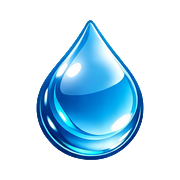
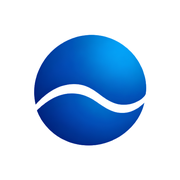
Switch site to the 23 Aug wave bubble identity
Replaces the droplet logo across the site with the 23 Aug kit in
brand/logo-kit-230826. Regenerated, not just copied, so each asset is at
the size the markup actually asks for.

- logo.png / logo-reverse.png: horizontal lockup, 1118x400
- favicon.png, favicon-32.png: from lefties-favicon-512
- apple-touch-icon.png: from lefties-app-icon, 180px
- icon-192.png, icon-512.png: added - site.webmanifest has referenced
  these two since the rebuild but they were never shipped, so the PWA
  icons 404'd

Header and footer markup carried hardcoded width="440" height="193" on
the logo, matching the droplet's 2.28 ratio. The new lockup is 2.79, so a
straight file swap would have squashed it on every page. Updated to
440x157 across 33 occurrences in 17 files.

Uses the horizontal lockup rather than the primary one because the kit
sets a 180px screen minimum for the full lockup and these render at 46px
and 52px. Consequence: the header no longer shows the CARPET CLEANING
descriptor. Noted in brand/README.md along with the mapping from each
site asset back to its kit source.

diff --git a/commercial.html b/commercial.html
@@ -32,7 +32,7 @@
 <a class="skip-link" href="#main">Skip to content</a>
 <header class="site-header">
 <div class="wrap">
-<a href="index.html" class="logo"><img src="assets/img/logo.png" alt="Lefties Carpet Cleaning" width="440" height="193"/></a>
+<a href="index.html" class="logo"><img src="assets/img/logo.png" alt="Lefties Carpet Cleaning" width="440" height="157"/></a>
 <nav class="nav-links" aria-label="Main">
 <a href="services.html">Services</a>
 <a href="commercial.html" aria-current="page">Commercial</a>
@@ -151,7 +151,7 @@
 <div class="wrap">
 <div class="cols">
 <div>
-<img class="flogo" src="assets/img/logo-reverse.png" alt="Lefties Carpet Cleaning" width="440" height="193" loading="lazy"/>
+<img class="flogo" src="assets/img/logo-reverse.png" alt="Lefties Carpet Cleaning" width="440" height="157" loading="lazy"/>
 <p>Carpet, upholstery and fabric revival across Hervey Bay and the Fraser Coast. Owner-operated, fully insured, and straight with you about what can and can't be fixed.</p>
 <div class="social-row" style="margin-top:18px">
 <a href="https://www.facebook.com/leftiesservices/" target="_blank" rel="noopener" class="social-btn fb" aria-label="Lefties on Facebook"><svg viewBox="0 0 24 24" aria-hidden="true"><path d="M22.675 0h-21.35C.593 0 0 .593 0 1.325v21.351C0 23.407.593 24 1.325 24h11.495v-9.294h-3.128v-3.622h3.128V8.413c0-3.1 1.893-4.788 4.659-4.788 1.325 0 2.463.099 2.795.143v3.24l-1.918.001c-1.504 0-1.795.715-1.795 1.763v2.313h3.587l-.467 3.622h-3.12V24h6.116c.73 0 1.323-.593 1.323-1.325V1.325C24 .593 23.407 0 22.675 0z"/></svg> Facebook</a>

diff --git a/services.html b/services.html
@@ -31,7 +31,7 @@
 <a class="skip-link" href="#main">Skip to content</a>
 <header class="site-header">
 <div class="wrap">
-<a href="index.html" class="logo"><img src="assets/img/logo.png" alt="Lefties Carpet Cleaning" width="440" height="193"/></a>
+<a href="index.html" class="logo"><img src="assets/img/logo.png" alt="Lefties Carpet Cleaning" width="440" height="157"/></a>
 <nav class="nav-links" aria-label="Main">
 <a href="services.html" aria-current="page">Services</a>
 <a href="commercial.html">Commercial</a>
@@ -150,7 +150,7 @@
 <div class="wrap">
 <div class="cols">
 <div>
-<img class="flogo" src="assets/img/logo-reverse.png" alt="Lefties Carpet Cleaning" width="440" height="193" loading="lazy"/>
+<img class="flogo" src="assets/img/logo-reverse.png" alt="Lefties Carpet Cleaning" width="440" height="157" loading="lazy"/>
 <p>Carpet, upholstery and fabric revival across Hervey Bay and the Fraser Coast. Owner-operated, fully insured, and straight with you about what can and can't be fixed.</p>
 <div class="social-row" style="margin-top:18px">
 <a href="https://www.facebook.com/leftiesservices/" target="_blank" rel="noopener" class="social-btn fb" aria-label="Lefties on Facebook"><svg viewBox="0 0 24 24" aria-hidden="true"><path d="M22.675 0h-21.35C.593 0 0 .593 0 1.325v21.351C0 23.407.593 24 1.325 24h11.495v-9.294h-3.128v-3.622h3.128V8.413c0-3.1 1.893-4.788 4.659-4.788 1.325 0 2.463.099 2.795.143v3.24l-1.918.001c-1.504 0-1.795.715-1.795 1.763v2.313h3.587l-.467 3.622h-3.12V24h6.116c.73 0 1.323-.593 1.323-1.325V1.325C24 .593 23.407 0 22.675 0z"/></svg> Facebook</a>

diff --git a/about-us.html b/about-us.html
@@ -31,7 +31,7 @@
 <a class="skip-link" href="#main">Skip to content</a>
 <header class="site-header">
 <div class="wrap">
-<a href="index.html" class="logo"><img src="assets/img/logo.png" alt="Lefties Carpet Cleaning" width="440" height="193"/></a>
+<a href="index.html" class="logo"><img src="assets/img/logo.png" alt="Lefties Carpet Cleaning" width="440" height="157"/></a>
 <nav class="nav-links" aria-label="Main">
 <a href="services.html">Services</a>
 <a href="commercial.html">Commercial</a>
@@ -138,7 +138,7 @@
 <div class="wrap">
 <div class="cols">
 <div>
-<img class="flogo" src="assets/img/logo-reverse.png" alt="Lefties Carpet Cleaning" width="440" height="193" loading="lazy"/>
+<img class="flogo" src="assets/img/logo-reverse.png" alt="Lefties Carpet Cleaning" width="440" height="157" loading="lazy"/>
 <p>Carpet, upholstery and fabric revival across Hervey Bay and the Fraser Coast. Owner-operated, fully insured, and straight with you about what can and can't be fixed.</p>
 <div class="social-row" style="margin-top:18px">
 <a href="https://www.facebook.com/leftiesservices/" target="_blank" rel="noopener" class="social-btn fb" aria-label="Lefties on Facebook"><svg viewBox="0 0 24 24" aria-hidden="true"><path d="M22.675 0h-21.35C.593 0 0 .593 0 1.325v21.351C0 23.407.593 24 1.325 24h11.495v-9.294h-3.128v-3.622h3.128V8.413c0-3.1 1.893-4.788 4.659-4.788 1.325 0 2.463.099 2.795.143v3.24l-1.918.001c-1.504 0-1.795.715-1.795 1.763v2.313h3.587l-.467 3.622h-3.12V24h6.116c.73 0 1.323-.593 1.323-1.325V1.325C24 .593 23.407 0 22.675 0z"/></svg> Facebook</a>

diff --git a/aftercare.html b/aftercare.html
@@ -31,7 +31,7 @@
 <a class="skip-link" href="#main">Skip to content</a>
 <header class="site-header">
 <div class="wrap">
-<a href="index.html" class="logo"><img src="assets/img/logo.png" alt="Lefties Carpet Cleaning" width="440" height="193"/></a>
+<a href="index.html" class="logo"><img src="assets/img/logo.png" alt="Lefties Carpet Cleaning" width="440" height="157"/></a>
 <nav class="nav-links" aria-label="Main">
 <a href="services.html">Services</a>
 <a href="commercial.html">Commercial</a>
@@ -122,7 +122,7 @@
 <div class="wrap">
 <div class="cols">
 <div>
-<img class="flogo" src="assets/img/logo-reverse.png" alt="Lefties Carpet Cleaning" width="440" height="193" loading="lazy"/>
+<img class="flogo" src="assets/img/logo-reverse.png" alt="Lefties Carpet Cleaning" width="440" height="157" loading="lazy"/>
 <p>Carpet, upholstery and fabric revival across Hervey Bay and the Fraser Coast. Owner-operated, fully insured, and straight with you about what can and can't be fixed.</p>
 <div class="social-row" style="margin-top:18px">
 <a href="https://www.facebook.com/leftiesservices/" target="_blank" rel="noopener" class="social-btn fb" aria-label="Lefties on Facebook"><svg viewBox="0 0 24 24" aria-hidden="true"><path d="M22.675 0h-21.35C.593 0 0 .593 0 1.325v21.351C0 23.407.593 24 1.325 24h11.495v-9.294h-3.128v-3.622h3.128V8.413c0-3.1 1.893-4.788 4.659-4.788 1.325 0 2.463.099 2.795.143v3.24l-1.918.001c-1.504 0-1.795.715-1.795 1.763v2.313h3.587l-.467 3.622h-3.12V24h6.116c.73 0 1.323-.593 1.323-1.325V1.325C24 .593 23.407 0 22.675 0z"/></svg> Facebook</a>

diff --git a/carpet-cleaning.html b/carpet-cleaning.html
@@ -32,7 +32,7 @@
 <a class="skip-link" href="#main">Skip to content</a>
 <header class="site-header">
 <div class="wrap">
-<a href="index.html" class="logo"><img src="assets/img/logo.png" alt="Lefties Carpet Cleaning" width="440" height="193"/></a>
+<a href="index.html" class="logo"><img src="assets/img/logo.png" alt="Lefties Carpet Cleaning" width="440" height="157"/></a>
 <nav class="nav-links" aria-label="Main">
 <a href="services.html">Services</a>
 <a href="commercial.html">Commercial</a>
@@ -132,7 +132,7 @@
 <div class="wrap">
 <div class="cols">
 <div>
-<img class="flogo" src="assets/img/logo-reverse.png" alt="Lefties Carpet Cleaning" width="440" height="193" loading="lazy"/>
+<img class="flogo" src="assets/img/logo-reverse.png" alt="Lefties Carpet Cleaning" width="440" height="157" loading="lazy"/>
 <p>Carpet, upholstery and fabric revival across Hervey Bay and the Fraser Coast. Owner-operated, fully insured, and straight with you about what can and can't be fixed.</p>
 <div class="social-row" style="margin-top:18px">
 <a href="https://www.facebook.com/leftiesservices/" target="_blank" rel="noopener" class="social-btn fb" aria-label="Lefties on Facebook"><svg viewBox="0 0 24 24" aria-hidden="true"><path d="M22.675 0h-21.35C.593 0 0 .593 0 1.325v21.351C0 23.407.593 24 1.325 24h11.495v-9.294h-3.128v-3.622h3.128V8.413c0-3.1 1.893-4.788 4.659-4.788 1.325 0 2.463.099 2.795.143v3.24l-1.918.001c-1.504 0-1.795.715-1.795 1.763v2.313h3.587l-.467 3.622h-3.12V24h6.116c.73 0 1.323-.593 1.323-1.325V1.325C24 .593 23.407 0 22.675 0z"/></svg> Facebook</a>

diff --git a/contact-us.html b/contact-us.html
@@ -31,7 +31,7 @@
 <a class="skip-link" href="#main">Skip to content</a>
 <header class="site-header">
 <div class="wrap">
-<a href="index.html" class="logo"><img src="assets/img/logo.png" alt="Lefties Carpet Cleaning" width="440" height="193"/></a>
+<a href="index.html" class="logo"><img src="assets/img/logo.png" alt="Lefties Carpet Cleaning" width="440" height="157"/></a>
 <nav class="nav-links" aria-label="Main">
 <a href="services.html">Services</a>
 <a href="commercial.html">Commercial</a>
@@ -189,7 +189,7 @@
 <div class="wrap">
 <div class="cols">
 <div>
-<img class="flogo" src="assets/img/logo-reverse.png" alt="Lefties Carpet Cleaning" width="440" height="193" loading="lazy"/>
+<img class="flogo" src="assets/img/logo-reverse.png" alt="Lefties Carpet Cleaning" width="440" height="157" loading="lazy"/>
 <p>Carpet, upholstery and fabric revival across Hervey Bay and the Fraser Coast. Owner-operated, fully insured, and straight with you about what can and can't be fixed.</p>
 <div class="social-row" style="margin-top:18px">
 <a href="https://www.facebook.com/leftiesservices/" target="_blank" rel="noopener" class="social-btn fb" aria-label="Lefties on Facebook"><svg viewBox="0 0 24 24" aria-hidden="true"><path d="M22.675 0h-21.35C.593 0 0 .593 0 1.325v21.351C0 23.407.593 24 1.325 24h11.495v-9.294h-3.128v-3.622h3.128V8.413c0-3.1 1.893-4.788 4.659-4.788 1.325 0 2.463.099 2.795.143v3.24l-1.918.001c-1.504 0-1.795.715-1.795 1.763v2.313h3.587l-.467 3.622h-3.12V24h6.116c.73 0 1.323-.593 1.323-1.325V1.325C24 .593 23.407 0 22.675 0z"/></svg> Facebook</a>

diff --git a/faq.html b/faq.html
@@ -32,7 +32,7 @@
 <a class="skip-link" href="#main">Skip to content</a>
 <header class="site-header">
 <div class="wrap">
-<a href="index.html" class="logo"><img src="assets/img/logo.png" alt="Lefties Carpet Cleaning" width="440" height="193"/></a>
+<a href="index.html" class="logo"><img src="assets/img/logo.png" alt="Lefties Carpet Cleaning" width="440" height="157"/></a>
 <nav class="nav-links" aria-label="Main">
 <a href="services.html">Services</a>
 <a href="commercial.html">Commercial</a>
@@ -101,7 +101,7 @@
 <div class="wrap">
 <div class="cols">
 <div>
-<img class="flogo" src="assets/img/logo-reverse.png" alt="Lefties Carpet Cleaning" width="440" height="193" loading="lazy"/>
+<img class="flogo" src="assets/img/logo-reverse.png" alt="Lefties Carpet Cleaning" width="440" height="157" loading="lazy"/>
 <p>Carpet, upholstery and fabric revival across Hervey Bay and the Fraser Coast. Owner-operated, fully insured, and straight with you about what can and can't be fixed.</p>
 <div class="social-row" style="margin-top:18px">
 <a href="https://www.facebook.com/leftiesservices/" target="_blank" rel="noopener" class="social-btn fb" aria-label="Lefties on Facebook"><svg viewBox="0 0 24 24" aria-hidden="true"><path d="M22.675 0h-21.35C.593 0 0 .593 0 1.325v21.351C0 23.407.593 24 1.325 24h11.495v-9.294h-3.128v-3.622h3.128V8.413c0-3.1 1.893-4.788 4.659-4.788 1.325 0 2.463.099 2.795.143v3.24l-1.918.001c-1.504 0-1.795.715-1.795 1.763v2.313h3.587l-.467 3.622h-3.12V24h6.116c.73 0 1.323-.593 1.323-1.325V1.325C24 .593 23.407 0 22.675 0z"/></svg> Facebook</a>

diff --git a/index.html b/index.html
@@ -33,7 +33,7 @@
 <a class="skip-link" href="#main">Skip to content</a>
 <header class="site-header">
 <div class="wrap">
-<a href="index.html" class="logo"><img src="assets/img/logo.png" alt="Lefties Carpet Cleaning" width="440" height="193"/></a>
+<a href="index.html" class="logo"><img src="assets/img/logo.png" alt="Lefties Carpet Cleaning" width="440" height="157"/></a>
 <nav class="nav-links" aria-label="Main">
 <a href="services.html">Services</a>
 <a href="commercial.html">Commercial</a>
@@ -292,7 +292,7 @@
 <div class="wrap">
 <div class="cols">
 <div>
-<img class="flogo" src="assets/img/logo-reverse.png" alt="Lefties Carpet Cleaning" width="440" height="193" loading="lazy"/>
+<img class="flogo" src="assets/img/logo-reverse.png" alt="Lefties Carpet Cleaning" width="440" height="157" loading="lazy"/>
 <p>Carpet, upholstery and fabric revival across Hervey Bay and the Fraser Coast. Owner-operated, fully insured, and straight with you about what can and can't be fixed.</p>
 <div class="social-row" style="margin-top:18px">
 <a href="https://www.facebook.com/leftiesservices/" target="_blank" rel="noopener" class="social-btn fb" aria-label="Lefties on Facebook"><svg viewBox="0 0 24 24" aria-hidden="true"><path d="M22.675 0h-21.35C.593 0 0 .593 0 1.325v21.351C0 23.407.593 24 1.325 24h11.495v-9.294h-3.128v-3.622h3.128V8.413c0-3.1 1.893-4.788 4.659-4.788 1.325 0 2.463.099 2.795.143v3.24l-1.918.001c-1.504 0-1.795.715-1.795 1.763v2.313h3.587l-.467 3.622h-3.12V24h6.116c.73 0 1.323-.593 1.323-1.325V1.325C24 .593 23.407 0 22.675 0z"/></svg> Facebook</a>

diff --git a/rugs-mattresses.html b/rugs-mattresses.html
@@ -32,7 +32,7 @@
 <a class="skip-link" href="#main">Skip to content</a>
 <header class="site-header">
 <div class="wrap">
-<a href="index.html" class="logo"><img src="assets/img/logo.png" alt="Lefties Carpet Cleaning" width="440" height="193"/></a>
+<a href="index.html" class="logo"><img src="assets/img/logo.png" alt="Lefties Carpet Cleaning" width="440" height="157"/></a>
 <nav class="nav-links" aria-label="Main">
 <a href="services.html">Services</a>
 <a href="commercial.html">Commercial</a>
@@ -133,7 +133,7 @@
 <div class="wrap">
 <div class="cols">
 <div>
-<img class="flogo" src="assets/img/logo-reverse.png" alt="Lefties Carpet Cleaning" width="440" height="193" loading="lazy"/>
+<img class="flogo" src="assets/img/logo-reverse.png" alt="Lefties Carpet Cleaning" width="440" height="157" loading="lazy"/>
 <p>Carpet, upholstery and fabric revival across Hervey Bay and the Fraser Coast. Owner-operated, fully insured, and straight with you about what can and can't be fixed.</p>
 <div class="social-row" style="margin-top:18px">
 <a href="https://www.facebook.com/leftiesservices/" target="_blank" rel="noopener" class="social-btn fb" aria-label="Lefties on Facebook"><svg viewBox="0 0 24 24" aria-hidden="true"><path d="M22.675 0h-21.35C.593 0 0 .593 0 1.325v21.351C0 23.407.593 24 1.325 24h11.495v-9.294h-3.128v-3.622h3.128V8.413c0-3.1 1.893-4.788 4.659-4.788 1.325 0 2.463.099 2.795.143v3.24l-1.918.001c-1.504 0-1.795.715-1.795 1.763v2.313h3.587l-.467 3.622h-3.12V24h6.116c.73 0 1.323-.593 1.323-1.325V1.325C24 .593 23.407 0 22.675 0z"/></svg> Facebook</a>

diff --git a/service-agreements.html b/service-agreements.html
@@ -31,7 +31,7 @@
 <a class="skip-link" href="#main">Skip to content</a>
 <header class="site-header">
 <div class="wrap">
-<a href="index.html" class="logo"><img src="assets/img/logo.png" alt="Lefties Carpet Cleaning" width="440" height="193"/></a>
+<a href="index.html" class="logo"><img src="assets/img/logo.png" alt="Lefties Carpet Cleaning" width="440" height="157"/></a>
 <nav class="nav-links" aria-label="Main">
 <a href="services.html">Services</a>
 <a href="commercial.html">Commercial</a>
@@ -132,7 +132,7 @@
 <div class="wrap">
 <div class="cols">
 <div>
-<img class="flogo" src="assets/img/logo-reverse.png" alt="Lefties Carpet Cleaning" width="440" height="193" loading="lazy"/>
+<img class="flogo" src="assets/img/logo-reverse.png" alt="Lefties Carpet Cleaning" width="440" height="157" loading="lazy"/>
 <p>Carpet, upholstery and fabric revival across Hervey Bay and the Fraser Coast. Owner-operated, fully insured, and straight with you about what can and can't be fixed.</p>
 <div class="social-row" style="margin-top:18px">
 <a href="https://www.facebook.com/leftiesservices/" target="_blank" rel="noopener" class="social-btn fb" aria-label="Lefties on Facebook"><svg viewBox="0 0 24 24" aria-hidden="true"><path d="M22.675 0h-21.35C.593 0 0 .593 0 1.325v21.351C0 23.407.593 24 1.325 24h11.495v-9.294h-3.128v-3.622h3.128V8.413c0-3.1 1.893-4.788 4.659-4.788 1.325 0 2.463.099 2.795.143v3.24l-1.918.001c-1.504 0-1.795.715-1.795 1.763v2.313h3.587l-.467 3.622h-3.12V24h6.116c.73 0 1.323-.593 1.323-1.325V1.325C24 .593 23.407 0 22.675 0z"/></svg> Facebook</a>

diff --git a/stain-treatment.html b/stain-treatment.html
@@ -32,7 +32,7 @@
 <a class="skip-link" href="#main">Skip to content</a>
 <header class="site-header">
 <div class="wrap">
-<a href="index.html" class="logo"><img src="assets/img/logo.png" alt="Lefties Carpet Cleaning" width="440" height="193"/></a>
+<a href="index.html" class="logo"><img src="assets/img/logo.png" alt="Lefties Carpet Cleaning" width="440" height="157"/></a>
 <nav class="nav-links" aria-label="Main">
 <a href="services.html">Services</a>
 <a href="commercial.html">Commercial</a>
@@ -132,7 +132,7 @@
 <div class="wrap">
 <div class="cols">
 <div>
-<img class="flogo" src="assets/img/logo-reverse.png" alt="Lefties Carpet Cleaning" width="440" height="193" loading="lazy"/>
+<img class="flogo" src="assets/img/logo-reverse.png" alt="Lefties Carpet Cleaning" width="440" height="157" loading="lazy"/>
 <p>Carpet, upholstery and fabric revival across Hervey Bay and the Fraser Coast. Owner-operated, fully insured, and straight with you about what can and can't be fixed.</p>
 <div class="social-row" style="margin-top:18px">
 <a href="https://www.facebook.com/leftiesservices/" target="_blank" rel="noopener" class="social-btn fb" aria-label="Lefties on Facebook"><svg viewBox="0 0 24 24" aria-hidden="true"><path d="M22.675 0h-21.35C.593 0 0 .593 0 1.325v21.351C0 23.407.593 24 1.325 24h11.495v-9.294h-3.128v-3.622h3.128V8.413c0-3.1 1.893-4.788 4.659-4.788 1.325 0 2.463.099 2.795.143v3.24l-1.918.001c-1.504 0-1.795.715-1.795 1.763v2.313h3.587l-.467 3.622h-3.12V24h6.116c.73 0 1.323-.593 1.323-1.325V1.325C24 .593 23.407 0 22.675 0z"/></svg> Facebook</a>

diff --git a/upholstery-cleaning.html b/upholstery-cleaning.html
@@ -32,7 +32,7 @@
 <a class="skip-link" href="#main">Skip to content</a>
 <header class="site-header">
 <div class="wrap">
-<a href="index.html" class="logo"><img src="assets/img/logo.png" alt="Lefties Carpet Cleaning" width="440" height="193"/></a>
+<a href="index.html" class="logo"><img src="assets/img/logo.png" alt="Lefties Carpet Cleaning" width="440" height="157"/></a>
 <nav class="nav-links" aria-label="Main">
 <a href="services.html">Services</a>
 <a href="commercial.html">Commercial</a>
@@ -130,7 +130,7 @@
 <div class="wrap">
 <div class="cols">
 <div>
-<img class="flogo" src="assets/img/logo-reverse.png" alt="Lefties Carpet Cleaning" width="440" height="193" loading="lazy"/>
+<img class="flogo" src="assets/img/logo-reverse.png" alt="Lefties Carpet Cleaning" width="440" height="157" loading="lazy"/>
 <p>Carpet, upholstery and fabric revival across Hervey Bay and the Fraser Coast. Owner-operated, fully insured, and straight with you about what can and can't be fixed.</p>
 <div class="social-row" style="margin-top:18px">
 <a href="https://www.facebook.com/leftiesservices/" target="_blank" rel="noopener" class="social-btn fb" aria-label="Lefties on Facebook"><svg viewBox="0 0 24 24" aria-hidden="true"><path d="M22.675 0h-21.35C.593 0 0 .593 0 1.325v21.351C0 23.407.593 24 1.325 24h11.495v-9.294h-3.128v-3.622h3.128V8.413c0-3.1 1.893-4.788 4.659-4.788 1.325 0 2.463.099 2.795.143v3.24l-1.918.001c-1.504 0-1.795.715-1.795 1.763v2.313h3.587l-.467 3.622h-3.12V24h6.116c.73 0 1.323-.593 1.323-1.325V1.325C24 .593 23.407 0 22.675 0z"/></svg> Facebook</a>
